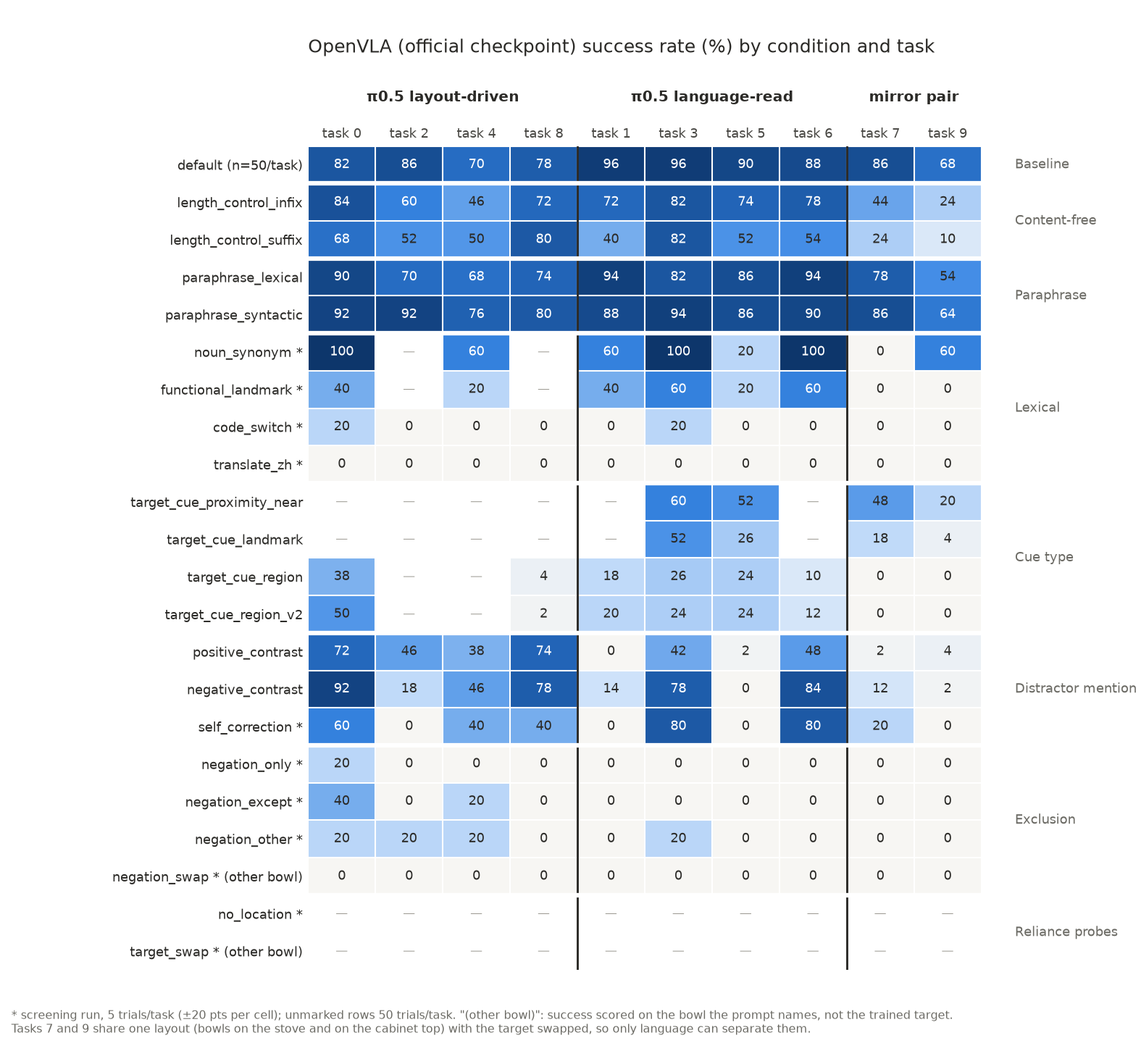
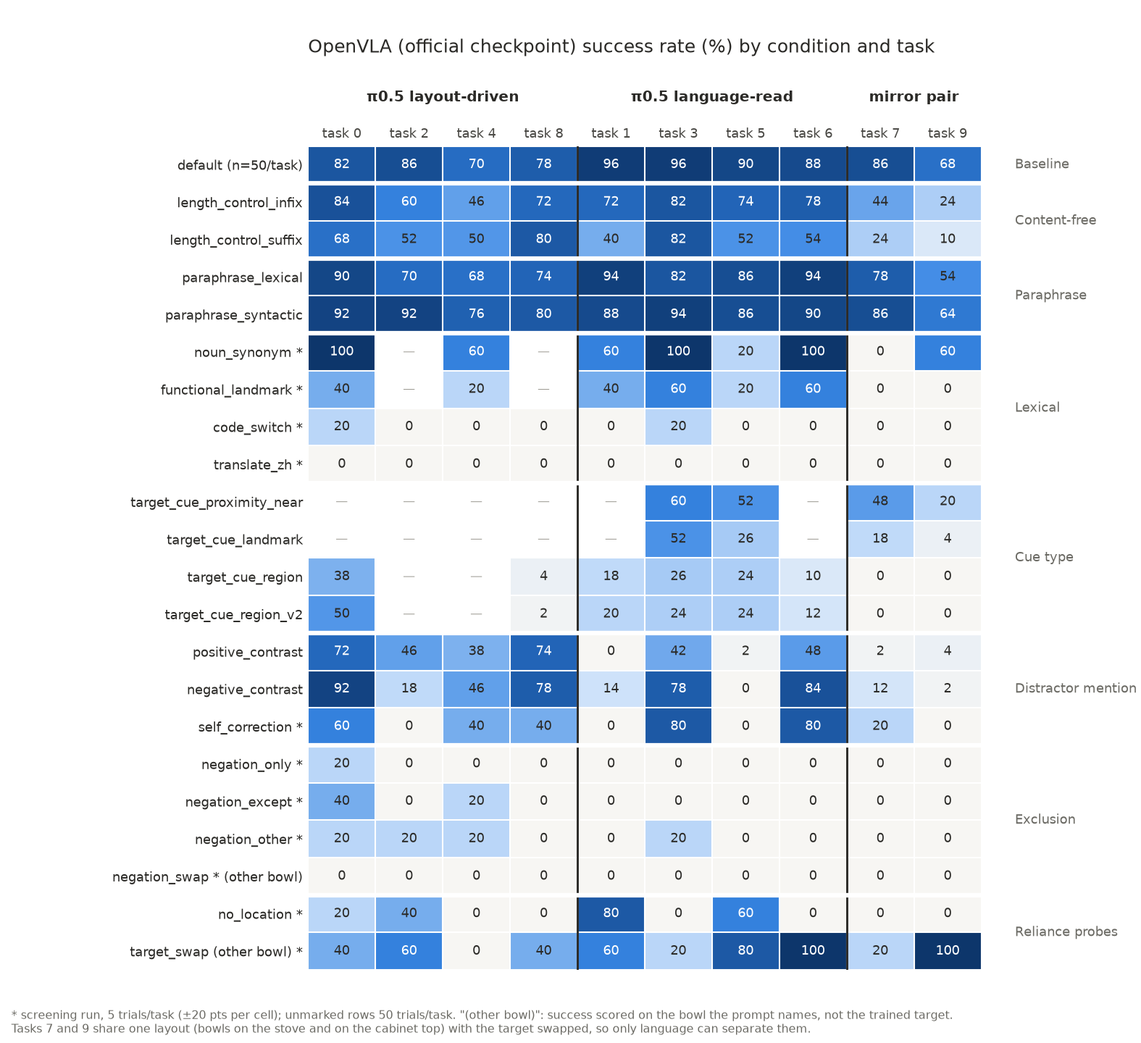
Record the full 50-trial target_swap / no_location run on pi05 (batch E)
pi05_libero at 50 trials/task: target_swap 56.8% (5.5% on tasks 0/2/4/8,
97.2% on 1/5/6/7/9, task 3 60%), no_location 81.4% (38% on the shared-layout
pair 7/9). Per task, target_swap + negation_only sums to about 1 (r = -0.98),
so pi05 takes the bowl a negation names. New §12 batch E, finding 27, a status
row and an eval_log entry; the OpenVLA full runs (with which-bowl logging) are
still running and are marked as such.

The pi05 analysis now uses the full runs: the region cue and self-correction
are no better than no location (38%) on the mirror pair, rather than
"worse than chance" as the 5-trial screen suggested. Figures regenerated.

Changed region(s): [[0.4356, 0.8438, 0.8711, 0.9375], [0.1867, 0.8438, 0.4044, 0.9375]]

diff --git a/scripts/language_stress/language_weakness_figures.py b/scripts/language_stress/language_weakness_figures.py
@@ -61,7 +61,7 @@ def heatmap(P, SC, title, fname):
     ('Cue type','target_cue_proximity_near',P,'target_cue_proximity_near'),('Cue type','target_cue_landmark',P,'target_cue_landmark'),('Cue type','target_cue_region',P,'target_cue_region'),('Cue type','target_cue_region_v2',P,'target_cue_region_v2'),
     ('Distractor mention','positive_contrast',P,'positive_contrast'),('Distractor mention','negative_contrast',P,'negative_contrast'),('Distractor mention','self_correction',SC,'self_correction *'),
     ('Exclusion','negation_only',P,'negation_only'),('Exclusion','negation_except',SC,'negation_except *'),('Exclusion','negation_other',SC,'negation_other *'),('Exclusion','negation_swap',SC,'negation_swap * (other bowl)'),
-    ('Reliance probes','no_location',SC,'no_location *'),('Reliance probes','target_swap',SC,'target_swap * (other bowl)')]
+    ('Reliance probes','no_location',P,'no_location'),('Reliance probes','target_swap',P,'target_swap (other bowl)')]
     cols=[0,2,4,8,1,3,5,6,7,9]
     M=np.full((len(rows),len(cols)),np.nan); N=np.zeros_like(M)
     labels=[r[3] for r in rows]
@@ -111,7 +111,7 @@ heatmap(OV, OVS, 'OpenVLA (official checkpoint) success rate (%) by condition an
         'openvla_official_language_heatmap.png')
 
 # mirror-pair gradient
-items=[('default',P,'exact training wording'),('target_cue_proximity_near',P,'"near the stove" (relation synonym)'),('noun_synonym',SC,'"on the cooktop" (noun synonym)'),('target_cue_landmark',P,'"next to the stove"'),('negative_contrast',P,'target + "not the one on …"'),('functional_landmark',SC,'"the appliance you cook on"'),('no_location',SC,'location removed (chance ≈ 50%)'),('code_switch',SC,'"on the 炉子" (code-switch)'),('translate_zh',SC,'full Chinese'),('self_correction',SC,'distractor first, then "sorry, I mean …"'),('target_cue_region',P,'table-region cue ("front-left")'),('negation_only',P,'"the bowl that is not on …"')]
+items=[('default',P,'exact training wording'),('target_cue_proximity_near',P,'"near the stove" (relation synonym)'),('noun_synonym',SC,'"on the cooktop" (noun synonym)'),('target_cue_landmark',P,'"next to the stove"'),('negative_contrast',P,'target + "not the one on …"'),('functional_landmark',SC,'"the appliance you cook on"'),('no_location',P,'location removed'),('code_switch',SC,'"on the 炉子" (code-switch)'),('translate_zh',SC,'full Chinese'),('self_correction',SC,'distractor first, then "sorry, I mean …"'),('target_cue_region',P,'table-region cue ("front-left")'),('negation_only',P,'"the bowl that is not on …"')]
 def wil(k,n,z=1.96):
     p=k/n; d=1+z*z/n; c=(p+z*z/(2*n))/d; h=z*math.sqrt(p*(1-p)/n+z*z/(4*n*n))/d; return c-h,c+h
 fig,ax=plt.subplots(figsize=(9,5.6),dpi=150)
@@ -121,7 +121,6 @@ for y,(c,m,lab) in zip(ys,items):
     ax.plot([lo*100,hi*100],[y,y],color='#9ec5f4',lw=2,solid_capstyle='round',zorder=1)
     ax.scatter([v*100],[y],s=46,color='#256abf',zorder=2,edgecolors='#ffffff',linewidths=1.5)
     ax.text(102,y,f'{v*100:.0f}%  ({k}/{n})',va='center',fontsize=8.5,color='#2b2a27')
-ax.axvline(50,color='#9a9890',lw=1,ls=(0,(3,3)))
 ax.set_yticks(ys); ax.set_yticklabels([i[2] for i in items],fontsize=8.5,color='#2b2a27')
 ax.set_xlim(0,100); ax.set_xlabel('success rate on tasks 7 + 9 (%), 95% Wilson CI',fontsize=8.5,color='#4a4945')
 for s in ('top','right','left'): ax.spines[s].set_visible(False)

diff --git a/docs/pi05_language_weakness.md b/docs/pi05_language_weakness.md
@@ -15,7 +15,8 @@ Figures: `docs/figures/pi05_language_heatmap.png`, `docs/figures/pi05_mirror_pai
 | Full benchmark, 2026-09-30 → 10-01 (`--pi05_libero--shard{0..3}of4`) | 22 registry conditions | 50 | 8,300 |
 | `spatial/negation_only`, 2026-10-10 (`--pi05_libero`) | 1 | 50 | 500 |
 | Language-stress screen, batches 1–3, 2026-10-10 (`--pi05_libero--screen`) | 12 candidates | 5 | 580 |
-| **Total** (the 16-rollout `pi05_smoke` run excluded) | | | **9,380** |
+| Full `target_swap` + `no_location` (batch E), 2026-10-10 (`--pi05_libero`) | 2 | 50 | 1,000 |
+| **Total** (the 16-rollout `pi05_smoke` run excluded) | | | **10,380** |
 
 All from the HF mirror `Qian0203/vla_ws-eval-results`, `results/`, deduplicated on
 `(task_id, episode_idx)`. Same scene, init states and seed (7) as every other policy. Every failed
@@ -27,19 +28,20 @@ the arm went for (§6).
 ## 1. Summary
 
 1. **pi05 reads the location phrase on only six of the ten `libero_spatial` tasks.** On tasks 0, 2, 4
-   and 8 it carries out the layout's trained motion whatever the sentence says (`target_swap`: 1/20
-   delivers the bowl the prompt names, against 29/30 on the other six). Every prompt manipulation is
+   and 8 it carries out the layout's trained motion whatever the sentence says (full `target_swap` run:
+   11/200 deliver the bowl the prompt names, against 273/300 on the other six, task 3 the partial case
+   at 30/50). Every prompt manipulation is
    close to free on those four tasks, which inflates every 10-task average.
 2. **Tasks 7 and 9 are the only clean language test in the suite.** They share one layout, a bowl on
    the stove and a bowl on the cabinet top, with the target swapped, so nothing but the sentence can
-   separate them. With the location removed pi05 is at chance there (5/10). This pair, not the
+   separate them. With the location removed pi05 falls below chance there (38/100). This pair, not the
    10-task mean, shows the weaknesses below at full size.
 3. **Exclusion is never composed; the negated phrase acts as a pointer.** "the bowl that is not on X"
    delivers the target in 1/100 rollouts on tasks 7/9 and 44/300 on the six language-read tasks,
    against 180/200 on the layout-driven four. Every rewording ("any … except", "the other …, not the
    one") does the same, and negating the target's own location (`negation_swap`) gives 0/50.
-4. **The table-region cue is worse than no cue.** "front-left of the table" style cues give 25–34% on
-   tasks 7/9, below the 50% of removing the location altogether.
+4. **The table-region cue is no better than no cue.** "front-left of the table" style cues give 25–34%
+   on tasks 7/9; removing the location altogether gives 38% there (full run).
 5. **The 78% on Chinese is the layout prior, not Chinese understanding.** Per task, `translate_zh`
    tracks `no_location` (r = 0.93, mean absolute difference 4 pts) and not `target_swap` (r = −0.20).
    On tasks 7/9 it is 3/10.
@@ -81,15 +83,18 @@ pi05 does:
 
 | Group | Tasks | `target_swap` | `no_location` | default |
 |---|---|--:|--:|--:|
-| Layout-driven | 0, 2, 4, 8 | **1/20** | 17/20 | 98.5% |
-| Language-read | 1, 3, 5, 6 | 19/20 | 19/20 | 98.5% |
-| Mirror pair | 7, 9 | 10/10 | **5/10** | 98.0% |
+| Layout-driven | 0, 2, 4, 8 | **11/200** (5.5%) | 188/200 | 98.5% |
+| Language-read | 1, 3, 5, 6 | 176/200 (88.0%; task 3 30/50) | 181/200 | 98.5% |
+| Mirror pair | 7, 9 | 97/100 | **38/100** (95% CI 29–48%) | 98.0% |
+
+Full runs, 50 trials/task (2026-10-10, `benchmark_split_result.md` §12 batch E). The 5-trial screens
+gave the same split (1/20, 19/20, 10/10 for `target_swap`; per-task r = 0.99).
 
 On the four layout-driven tasks pi05 ignores a truthful instruction to fetch the other bowl. On the
 other six it follows it. On the mirror pair, where the layout carries no information, removing the
-location drops it to chance. The remaining sections read every condition through these three groups.
-Group membership rests on the 5-trial `target_swap` screen (§6); the full-run `negation_only` profile
-(§3.1) agrees with it on every task except task 3, which sits between the groups in both.
+location drops it below chance (38%). The remaining sections read every condition through these three groups.
+Group membership comes from the full `target_swap` run; the `negation_only` profile (§3.1) agrees with
+it on every task except task 3, which sits between the groups in both (60% and 62%).
 
 No single geometric rule separates the layout-driven tasks from the language-read ones: three of the
 four have both bowls on the table surface, but so does task 1. Rollout videos would settle what the
@@ -111,9 +116,11 @@ Success rates per group; 95% Wilson intervals for the cells the argument rests o
 
 - **The 44.8% is entirely the layout prior.** Across the ten tasks `negation_only` (full run)
   correlates with `target_swap` at r = −0.95 (Spearman −0.93, p = 1e-4): it succeeds exactly where pi05
-  ignores the sentence.
+  ignores the sentence. Against the full `target_swap` run the fit is closer still: per task the two
+  success rates add up to 0.90–1.22 (r = −0.98), so pi05 fails a negation exactly as often as it
+  follows the location the sentence names.
 - **The negated location acts as a positive pointer.** On the mirror pair the policy must choose from
-  the words; with "not on the cabinet" it delivers the stove bowl in 1/100, far below the 50% it gets
+  the words; with "not on the cabinet" it delivers the stove bowl in 1/100, far below the 38% it gets
   with no location at all. That is consistent with going to the place named and dropping "not" (direct
   confirmation needs which-bowl logging, §6).
 - **Not a "not" problem.** "except" and "the other …, not the one" track `negation_only` per task
@@ -141,31 +148,34 @@ in every group), so the residual comes from the distractor's location words. The
 losses are task 5 (64% / 58%) and task 9 (86% / 66%). Negation adds a further 8 pts on the
 language-read group (89.0 → 81.0), which is W1 again on a smaller scale.
 
-### 3.3 W3 — Self-correction: the first-named location wins on the mirror pair (screen)
+### 3.3 W3 — Self-correction fails on the mirror pair (screen)
 
 `self_correction` * ("the black bowl on top of the wooden cabinet, sorry, I mean the one on the
 stove, …") is 20/20 on the layout-driven tasks, 19/20 on tasks 1, 3, 5, 6, and **3/10 on tasks 7/9**.
-Where the layout cannot help, the retracted location, named first, wins more often than chance. 10
-rollouts only (95% CI 11–60%); worth a full run on the mirror pair.
+Where the layout cannot help, the corrected sentence does no better than no location (38/100, full
+run); whether the retracted, first-named location wins needs which-bowl logging. 10 rollouts only (95%
+CI 11–60%); worth a full run on the mirror pair.
 
-### 3.4 W4 — Allocentric table-region cues mislead (severity: high, stable across wordings)
+### 3.4 W4 — Allocentric table-region cues carry no usable information (severity: high, stable across wordings)
 
 | Condition (task 7 wording) | Layout-driven (0, 8) | Language-read (6) | Mirror 7/9 |
 |---|--:|--:|--:|
 | `target_cue_region` ("the black bowl at the front-left of the table") | 100% | 67.3% | **25.0%** (18–34) |
 | `target_cue_region_v2` | 100% | 70.0% | 34.0% (25–44) |
 | `target_cue_region_v3` | 100% | 66.3% | 25.0% (18–34) |
-| `no_location` * | 20/20 | 24/30 | 5/10 |
+| `no_location` (full run) | 100/100 | 219/300 | 38/100 (29–48) |
 
-All three wordings put the mirror pair below the no-location chance level, so the region words are not
-just ignored, they point at the other bowl more often than not. Two explanations remain open:
+On the mirror pair the region cue does no better than removing the location altogether (38/100 in the
+full run): v1 and v3 at 25/100 are lower, v2 at 34/100 is not. An earlier version of this file, using
+the 5-trial `no_location` screen (5/10), read this as the region words pointing at the other bowl; the
+full run makes that a possibility, not a finding. Two explanations remain open:
 
 - pi05 resolves "front/left/right" in a different frame from the one the cues were written in (camera
   view vs. robot base). The cues are truthful in the frame `benchmark_split_plan.md` §4b uses; whether
   that matches the images the policy sees has not been checked against a rendered frame.
-- Region words carry no training signal at all (no `libero_spatial` prompt uses them), and the
-  below-chance result is noise around 50%. Against this: v1 and v3 are each 25/100, with intervals
-  ending at 34%.
+- Region words carry no training signal at all (no `libero_spatial` prompt uses them), so the policy
+  behaves as if no location were given (38%). v1 and v3 (25/100, intervals ending at 34%) sit just
+  below that interval's lower end (29%); the difference is marginal.
 
 Task 1 also loses 24–34 pts under every region wording, so the effect is not confined to the pair.
 
@@ -182,14 +192,14 @@ named. The target's relation word is unchanged.
 | "near / beside / close to / adjacent to the stove" | 94–96/100 | 96–97% |
 | "on the cooktop" (`noun_synonym` *) | 8/10 | 87.5% |
 | "on the appliance you cook on" (`functional_landmark` *) | 6/10 | 87.5% |
-| no location (`no_location` *) | 5/10 | 82% |
+| no location (`no_location`, full run) | 38/100 | 81.4% |
 | "on the 炉子" (`code_switch` *) | 4/10 | 80% |
 | "拿起炉子上的黑色碗…" (`translate_zh` *) | 3/10 | 78% |
 
 - pi05 binds the landmark *noun* tightly to its training vocabulary. Relation words can be swapped
   freely; the noun cannot.
 - **The Chinese headline is the layout prior.** Per task, `translate_zh` follows `no_location`
-  (r = 0.93, mean |difference| 4 pts) and is unrelated to `target_swap` (r = −0.20); `code_switch`
+  (r = 0.93 against the screen, 0.92 against the full run) and is unrelated to `target_swap` (r = −0.20); `code_switch`
   likewise (r = 0.81 with `no_location`). Both lose task 4 (2/5), the one unique-layout task where
   `no_location` also fails (2/5), and both sit at or below chance on the mirror pair. The
   conclusion that pi05 "keeps most of its success" in Chinese (finding 25 in `benchmark_split_result.md`
@@ -231,7 +241,7 @@ and the mirror pair alone):
 | `noun_synonym` * | 87.5% | 25/30 | 8/10 |
 | `functional_landmark` * | 87.5% | 25/30 | 6/10 |
 | `self_correction` * | 84% | 22/30 | 3/10 |
-| `no_location` * | 82% | 24/30 | 5/10 |
+| `no_location` (full run) | 81.4% | 219/300 | 38/100 |
 | `code_switch` * | 80% | 24/30 | 4/10 |
 | `translate_zh` * | 78% | 22/30 | 3/10 |
 | `target_cue_region` (v1 / v2 / v3) | 75.5 / 77.5 / 74.8% | 67.3 / 70.0 / 66.3% | 25 / 34 / 25% |
@@ -268,12 +278,12 @@ mirror-pair numbers (tasks 7/9, 50 trials each) are there to compare already, e.
 ## 6. Limitations
 
 - **Outcome only.** Every failure is a 230-step timeout; the results do not record which bowl was
-  grasped or placed. "The negated phrase acts as a pointer" (W1), "the first-named location wins" (W3)
-  and "region words point at the other bowl" (W4) are inferred from below-chance success on the mirror
-  pair and from `target_swap` / `negation_swap`, not observed.
+  grasped or placed. "The negated phrase acts as a pointer" (W1) is inferred from
+  `target_swap` + `negation_only` adding up to about 1 per task and from `negation_swap`; which bowl the
+  policy takes under self-correction (W3) and region cues (W4) is unknown. None of it is observed.
 - **Screens are 5 trials/task**: ±20 pts per task, 10 rollouts on the mirror pair (95% CIs about ±30
-  pts). The task grouping depends on the `target_swap` screen; task 3 (4/5 there, 62% under
-  `negation_only`) and task 8 (1/5, 76%) are the least certain members.
+  pts). The task grouping no longer depends on them: the full `target_swap` run confirms it, with task 3
+  (60%) partial and task 8 (18%) mostly layout-driven.
 - One seed (7), one init-state set, one run per condition.
 - pi05_libero was trained on all 40 LIBERO tasks; several `target_swap` prompts are word for word
   another task's training instruction. Its "reading" of the location may be matching whole training
@@ -285,8 +295,8 @@ mirror-pair numbers (tasks 7/9, 50 trials each) are there to compare already, e.
 1. **Log which bowl ends up on the plate, and which one is grasped first**, in each rollout row (the
    distractor's `On(bowl_2, plate)` predicate plus first-contact object). No new rollouts needed for
    new conditions, and it turns W1/W3/W4 from inferences into observations.
-2. **Full runs (50 trials/task) of `target_swap` and `no_location` on pi05 and on OpenVLA.** They define
-   the grouping every analysis here depends on; currently 5 trials/task and pi05 only.
+2. ~~Full runs (50 trials/task) of `target_swap` and `no_location`.~~ Done for pi05 (2026-10-10,
+   §2 above); both OpenVLA checkpoints running with which-bowl logging (§12 batch E).
 3. **A mirror-pair split.** Tasks 7/9 are the only layout-ambiguous pair in `libero_spatial`. New suites
    with more such pairs (two bowls in the same places, target swapped, e.g. stove/cookie box, ramekin/
    cabinet top) would give a language score that the layout prior cannot inflate. Placing bowls on the

diff --git a/docs/benchmark_split_result.md b/docs/benchmark_split_result.md
@@ -53,6 +53,7 @@ Applies to every condition below unless a section says otherwise.
 | Cross-model reference: `pi05_libero` (§9) | Runs through the same registry via `--model_family openpi` | All 22 current conditions run 2026-09-30 → 2026-10-01 (8,300 rollouts). `spatial/default` 98.4%; prompt-only conditions 87–99% except the region cue (75–78%); 3-bowl scene conditions 43–91% |
 | Cross-model reference: official OpenVLA checkpoint (§10) | Same registry and code path as the reference; only `CHECKPOINT` differs | All 22 conditions run 2026-10-05 → 2026-10-07 (8,300 rollouts). Against our checkpoint: r = 0.980, mean absolute difference 4.0 pts, 20 of 22 within 7 pts. `spatial/default` 84.0% for both |
 | Language-stress screening (§12, not a `SPLITS` entry) | `screening/language_stress/` + `run_libero_eval.py --instruction_file` | 2026-10-10, 5 trials/task, three batches, 14 candidates. Every negation/exclusion wording collapses both families (official OpenVLA 0–8%, pi05_libero 0–46%); `negation_swap` is 0% for both. `translate_zh` / `code_switch` separate them (OpenVLA 0–4%, pi05 78–80%). `negation_only` promoted to `spatial/negation_only` and run in full for OpenVLA (2.6%) and pi05 (44.8%). Batch D (2026-10-10/11): OpenVLA `target_swap` 52–54%, `no_location` 10–20% (pi05 60% / 82%) |
+| Full `target_swap` / `no_location` runs (§12 batch E, not `SPLITS` entries) | Same candidate JSONs as the screens, 50 trials/task | pi05_libero done 2026-10-10: `target_swap` 56.8%, `no_location` 81.4% (1,000 rollouts). Both OpenVLA checkpoints running 2026-10-10/11 with per-rollout outcome logging (openvla `1e8544e`) |
 | Cross-model reference: QwenVLA (§11) | Runs through the same registry via `--model_family qwenvla` (`scripts/run_eval_qwenvla.sh`, host conda env) | All 22 current conditions + `center_fixed_legacy` run by Ken Zheng (2026-09-30 A100, 2026-10-05 H200; 8,800 rollouts). `spatial/default` 79.8%; distractor mention / negation 54.8 / 37.2%; length controls 74.8–76.2%; region cue 17–21% |
 | Mechanistic Localization Probe (not a `SPLITS` entry) | Script implemented (`probe_mechanistic_localization.py`) | Run 2026-09-04 → 2026-09-10 on task 5. Real, n=50-replicated early-window vision-attention/resolution-layer effects for `target_cue_landmark`; no layer/module localized; confidence diagnostic null. Full record: `mechanistic_localization.md` |
 
@@ -1204,6 +1205,14 @@ Results: `results/libero_spatial--{paraphrase_lexical,paraphrase_syntactic,targe
     mixes that with repeating the layout's trained motion. Both routes fail `negation_only`, for
     different reasons (§12 batch D, point 4). Which bowl each rollout delivered is not yet logged.
 
+27. **Full runs confirm pi05's two routes, and that it drops "not"** (2026-10-11, §12 batch E, 50
+    trials/task). `target_swap` is 56.8%: 5.5% (11/200) on tasks 0, 2, 4, 8 and 97.2% (243/250) on tasks
+    1, 5, 6, 7, 9, with task 3 in between (60%); per task it matches the 5-trial screen at r = 0.99. Per
+    task, `target_swap` + `negation_only` sums to 0.90–1.22 (r = −0.98): where pi05 goes to the bowl a
+    sentence names, it fails `negation_only` by the same amount, so it takes the negated bowl. Without
+    the location it keeps 81.4% overall but 38% on tasks 7 and 9, the one pair whose layout is shared.
+    The OpenVLA full runs (with which-bowl logging) are still running.
+
 ## 7. Render / contact-sheet check log
 
 Every new or previously-unchecked scene gets its init-state contact sheet rendered
@@ -2227,3 +2236,52 @@ Per-task successes out of 5 (ours / official / pi05), with the bowl `target_swap
 
 Results: `results/libero_spatial--{screen_default,target_swap,no_location}--openvla-7b-libero-spatial-lora-r32--screen.jsonl`
 and `--openvla-official-libero-spatial--screen.jsonl` (`berkeley`; in the HF mirror).
+
+**Batch E: `target_swap` and `no_location` at the full 50 trials/task** (same candidate JSONs as
+batches 2 and D, sha256 `3cccd982…` and `5df13c4f…`; seed 7). Launch details: `eval_log.md` 2026-10-11
+batch E.
+
+- pi05_libero: `berkeley-2`, two policy servers (GPUs 0 and 3, ports 8000/8001), openvla `62487f7`
+  (success only, no which-bowl fields), 2026-10-10 19:19 → 20:17 UTC. Done, 1,000 rollouts.
+- Both OpenVLA checkpoints: running on openvla `1e8544e`, which logs the bowl approached, lifted and
+  delivered in every rollout (`target_swap` on `berkeley`, `no_location` on `berkeley-2`). Added here
+  when done.
+
+pi05_libero per task (successes out of 50; the screen's out of 5 in brackets):
+
+| id | Class (blind-task table) | `target_swap` | `no_location` | `negation_only` (§2, /50) | `target_swap` + `negation_only` (rates) |
+|--:|---|--:|--:|--:|--:|
+| 0 | blind | 0 [0] | 50 [5] | 49 | 0.98 |
+| 2 | blind | 2 [0] | 50 [5] | 48 | 1.00 |
+| 4 | blind (form-sensitive) | 0 [0] | 38 [2] | 45 | 0.90 |
+| 8 | blind | 9 [1] | 50 [5] | 38 | 0.94 |
+| 1 | following | 48 [5] | 40 [4] | 1 | 0.98 |
+| 3 | following | **30** [4] | 47 [5] | 31 | 1.22 |
+| 5 | following | 50 [5] | 45 [5] | 3 | 1.06 |
+| 6 | following | 48 [5] | 49 [5] | 8 | 1.12 |
+| 7 | following, shared layout | 48 [5] | **18** [3] | 1 | 0.98 |
+| 9 | following, shared layout | 49 [5] | **20** [2] | 0 | 0.98 |
+| **Overall** | | **56.8%** (284/500) [60%] | **81.4%** (407/500) [82%] | 44.8% | |
+
+**Reading (batch E, pi05).**
+
+1. **The blind/following split holds at 50 trials/task.** `target_swap` is 5.5% on the blind tasks
+   (95% CI 3–10%) and 97.2% on tasks 1, 5, 6, 7, 9; per task it matches the screen at r = 0.99. The
+   blind-task table above therefore stands as computed. Task 3 sits between the classes (60%); task 8
+   follows the named location in 9 of 50.
+2. **On `negation_only` pi05 takes the bowl the sentence names.** Per task, the rate at which it delivers
+   the named bowl under `target_swap` and its `negation_only` success add up to about 1 (0.90–1.22,
+   r = −0.98, p < 10⁻⁶): it fails a negation exactly as often as it follows a location. This is
+   inferred from success rates of two separate conditions; these pi05 runs do not log which bowl was
+   delivered.
+3. **Without the location, the shared-layout pair falls below chance.** `no_location` keeps 94% on the
+   blind tasks and 90.5% on tasks 1, 3, 5, 6, but 38/100 (95% CI 29–48%) on tasks 7 and 9, whose
+   layouts are identical. Both tasks are low (36%, 40%), so pi05 is not defaulting to one bowl; part of
+   the pair's rollouts deliver neither. The screen's 5/10 overstated this pair.
+4. **Task 4 is less form-sensitive than the screen suggested**: 76% without the location (screen 2/5),
+   against 98% with it. It stays the one blind task that loses something when the phrase is removed.
+5. **The Chinese result still tracks the layout.** Per task, `translate_zh` (screen) follows the full
+   `no_location` at r = 0.92 and not `target_swap` (r = −0.23).
+
+Results: `results/libero_spatial--{target_swap,no_location}--pi05_libero--shard{0,1}of2.jsonl`
+(`berkeley-2`; in the HF mirror).

diff --git a/docs/eval_log.md b/docs/eval_log.md
@@ -1321,6 +1321,47 @@ batch D, §6 finding 26.
 
 ---
 
+## 2026-10-11 — Full 50-trial `target_swap` / `no_location` (batch E): pi05 done, both OpenVLA checkpoints running
+
+Promotes the two layout-reliance screens (batches 2 and D) to the full 50 trials/task, so the
+blind/following task classification (`benchmark_split_result.md` §12) no longer rests on 5 trials.
+Same candidate JSONs (`screening/language_stress/candidates/{target_swap,no_location}.json`, sha256
+`3cccd982…` / `5df13c4f…`), run through `run_eval.sh --instruction_file`, seed 7, image
+`openvla-libero:blackwell` / sdpa / bf16. Run notes without `--screen`, so no file is shared with the
+screens.
+
+- **pi05_libero** (`berkeley-2`, `~/run_full_pi05_e.sh`, log `~/logs/full_pi05_e.log`): two policy
+  servers started with `GPUS=0,3 scripts/serve_openpi.sh` (ports 8000/8001), eval sharded over the same
+  GPUs, openvla `62487f7` (success only). `target_swap` 2026-10-10 19:19 → 19:51 UTC, `no_location`
+  19:51 → 20:17 UTC; script exited 0, results synced, both servers stopped. **`target_swap` 56.8%**
+  (284/500), **`no_location` 81.4%** (407/500). The first launch failed before any rollout: `uv` is not
+  on the non-interactive PATH, so the script now prepends `~/.local/bin`.
+- **Both OpenVLA checkpoints** run on openvla `1e8544e` (openvla PR #3, per-rollout outcome logging:
+  `target_object`, `bowls_on_plate`, `first_bowl_approached`, `first_bowl_grasped`, …) from a separate
+  workspace `~/vla_ws_e` on each server (git worktree of `~/vla_ws` at `ecfb6f9` with openvla checked
+  out at `1e8544e`; checkpoints mounted read-only from `~/vla_ws/openvla/checkpoint/`), so the batch-D
+  screens running in `~/vla_ws` kept `62487f7`.
+  - `target_swap`, `berkeley` (GPUs shared with other users at 96–99% load): official checkpoint on
+    GPUs 0,2 from 2026-10-10 19:27 UTC, ours on GPUs 1,2 from about 21:42 UTC (after its batch-D screen).
+  - `no_location`, both checkpoints in parallel on `berkeley-2` GPUs 0 and 3, 4 shards each
+    (`GPUS=0,3,0,3`), from about 22:45 UTC (`~/run_full_nl_b2_e.sh`, logs `~/logs/full_nl_{official,r32}_b2.log`).
+    Moved here from `berkeley`, where it was queued after `target_swap`, to finish sooner; the
+    `berkeley` wrappers were stopped after their `target_swap` runs started and `~/watch_ts_e.sh` waits
+    for those runs and syncs. Shard files are `--shardXof4` (`no_location`) and `--shardXof2`
+    (`target_swap`), so the two machines never write the same file name.
+  - A relaunch on `berkeley` at about 19:20 UTC ran `pkill -f run_full_…`, which also matched the ssh
+    shell issuing it and cut that command short; only this batch's own waiting scripts were stopped,
+    and the batch-D screen processes were untouched. Relaunched by PID.
+- **Results:** pi05 `results/libero_spatial--{target_swap,no_location}--pi05_libero--shard{0,1}of2.jsonl`
+  (`berkeley-2:~/vla_ws`); OpenVLA under `~/vla_ws_e/openvla/experiments/logs/results/` on each server,
+  run notes `openvla-official-libero-spatial` and `openvla-7b-libero-spatial-lora-r32`. All mirrored to
+  the HF dataset (pi05 at the end of its run, OpenVLA every 30 min). Detail: `benchmark_split_result.md`
+  §12 batch E, finding 27.
+
+**Status:** open. The OpenVLA results get added to this entry's follow-up.
+
+---
+
 ## Still queued (registry-ready, not yet launched)
 
 `spatial/negation_only` (authored 2026-10-10): run for OpenVLA and `pi05_libero` (2026-10-11 entry);
